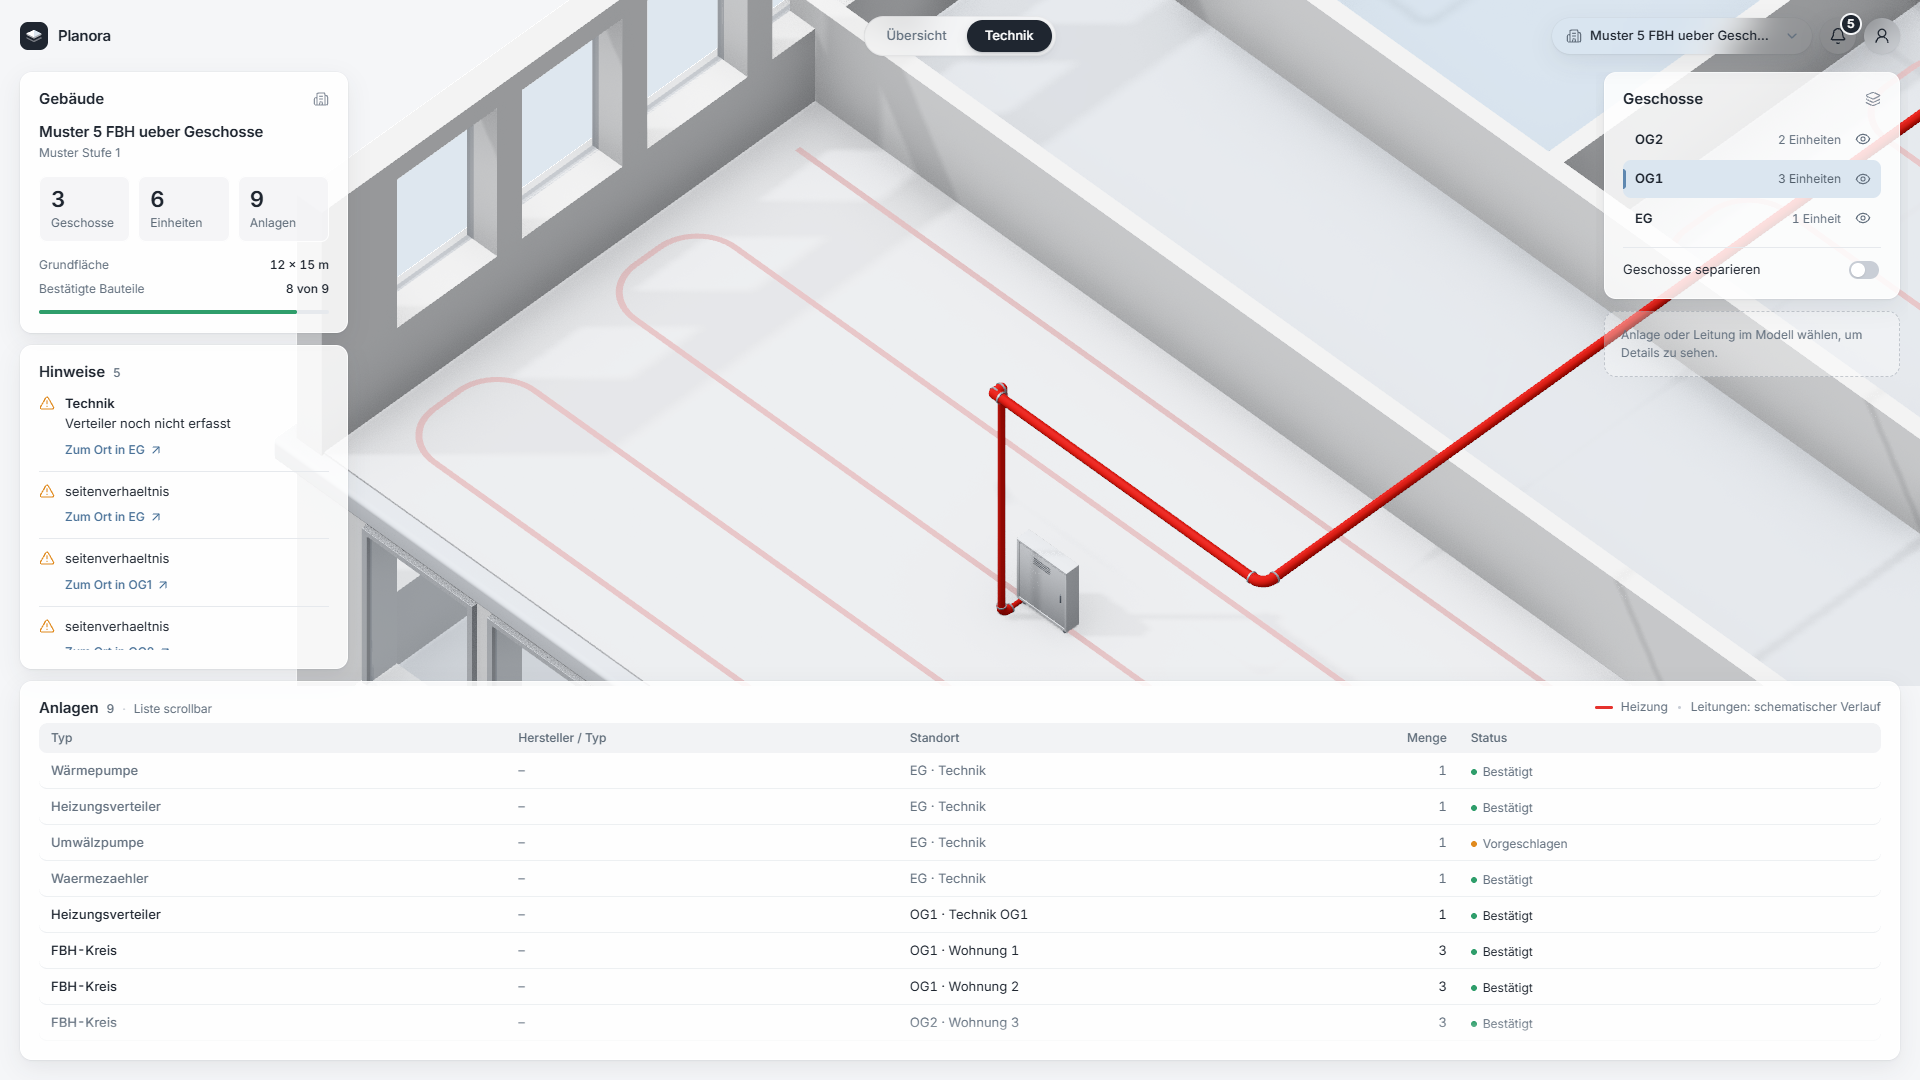
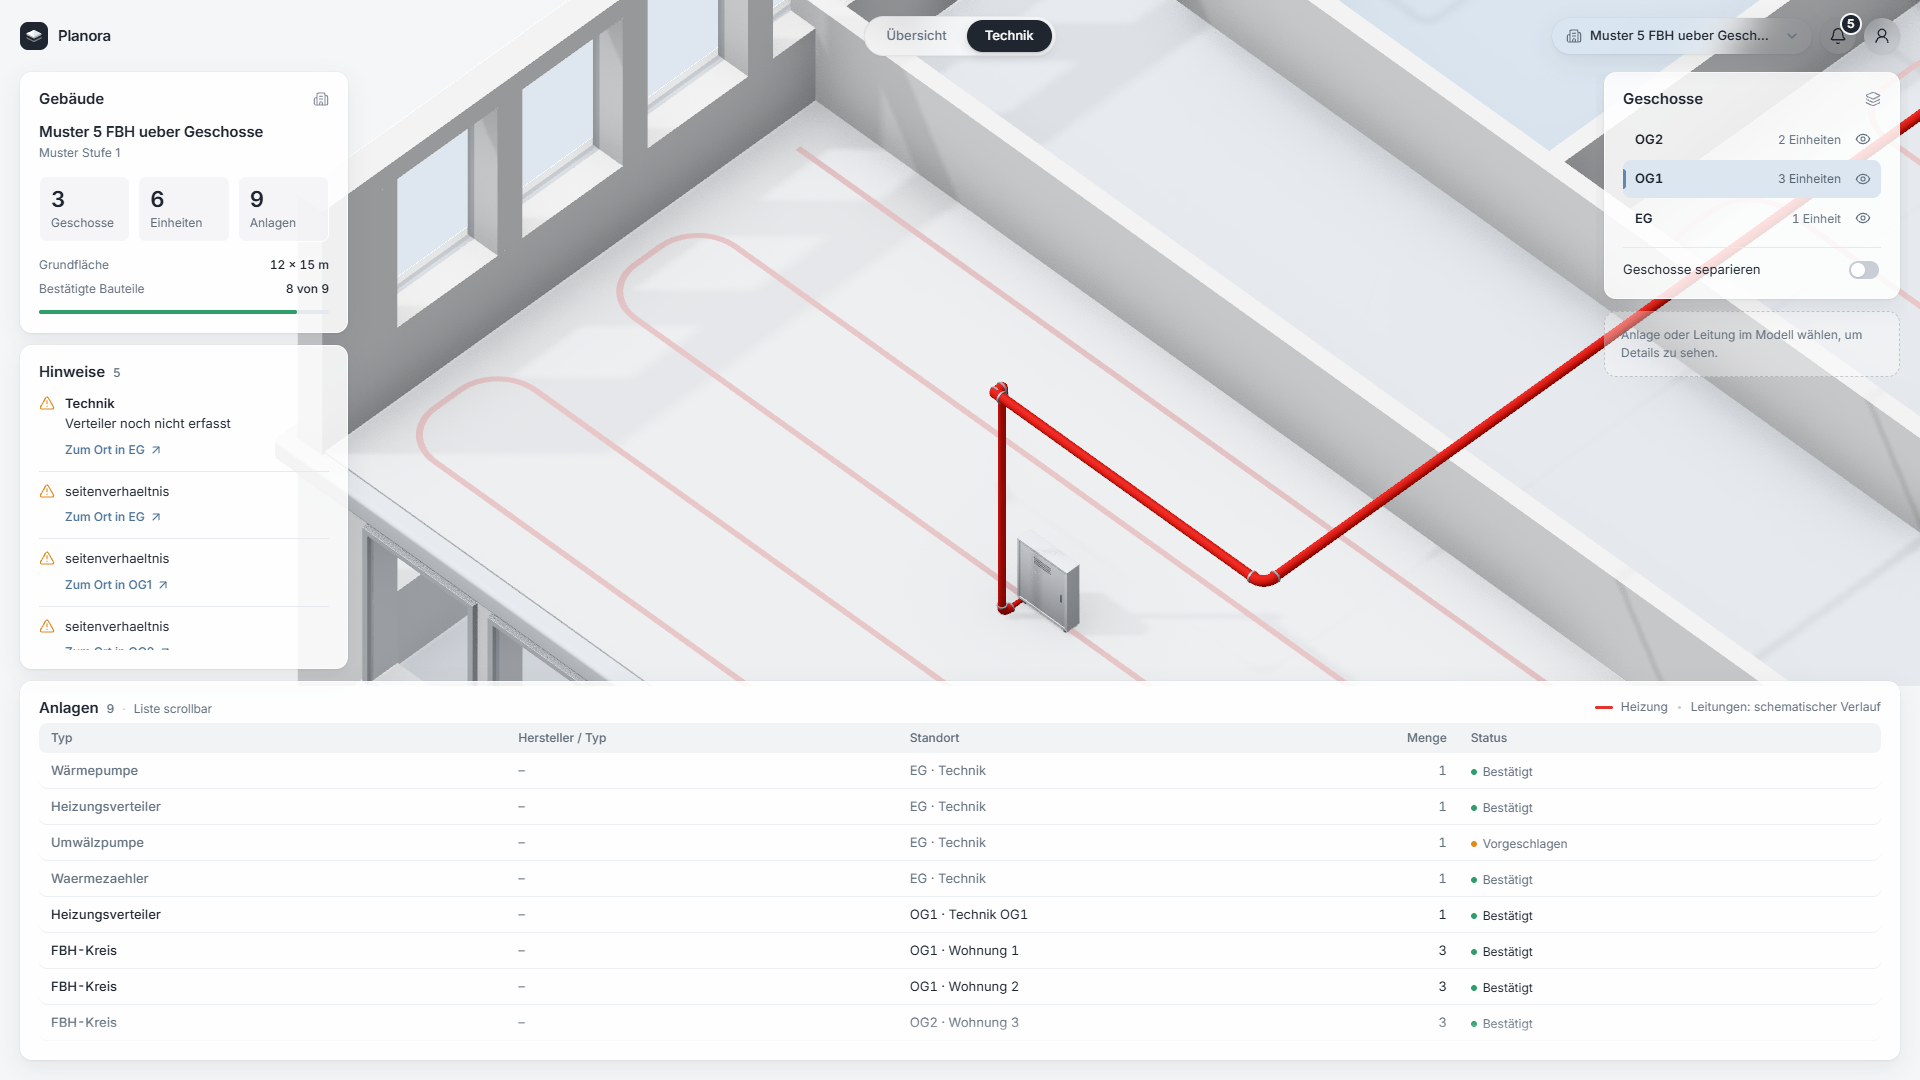
Formstuecke: T-Stueck auch bei Abzweig an einer Strangecke
PO 15.11.: Beginnt ein Abzweig an einem Eckpunkt des Strangs, zeichnete das
Rohr dort einen Pressbogen und der Abzweig stach aus dessen Ecke (wirkte
wie zwei Boegen). anAbzweigenTeilen() teilt das Rohr fuer die Darstellung
an solchen Punkten; knoten() erkennt dann drei Arme und setzt ein T-Stueck.
Punkte und Fuehrung unveraendert. 3 neue Tests, Web 366/366, 60 fps.

diff --git a/app/web/src/szene3/formstuecke.test.ts b/app/web/src/szene3/formstuecke.test.ts
@@ -1,7 +1,7 @@
 import * as THREE from "three";
 import { describe, expect, it } from "vitest";
 import type { V3 } from "../szene2/huelle";
-import { bogenMatrix, bogenSchluessel, formstuecke, FORMSTUECK, knoten, zylinderMatrix } from "./formstuecke";
+import { anAbzweigenTeilen, bogenMatrix, bogenSchluessel, formstuecke, FORMSTUECK, knoten, zylinderMatrix } from "./formstuecke";
 import type { Rohrstueck } from "./netz";
 import { ROHR, bogenLagen } from "./technik";
 
@@ -89,5 +89,29 @@ describe("Instanzmatrizen", () => {
     const m = zylinderMatrix({ position: [1, 2, 3], richtung: [0, 0, -1], radius: 0.05, laenge: 0.2 });
     const spitze = new THREE.Vector3(0, 0.5, 0).applyMatrix4(m);
     expect(spitze.distanceTo(new THREE.Vector3(1, 2, 2.9))).toBeLessThan(1e-9);
+  });
+});
+
+describe("anAbzweigenTeilen (Abzweig an einer Ecke des Strangs, PO 15.11.)", () => {
+  // Strang biegt bei (4,3,0) ab; dort beginnt ein Abzweig derselben Gruppe.
+  const strang = { ...rohr([[0, 3, 0], [4, 3, 0], [4, 3, 3]], "g"), startRadius: 0.02, endRadius: 0.03, frei: true };
+  const abzweig = rohr([[4, 3, 0], [8, 3, 0]], "g");
+  const teile = anAbzweigenTeilen([strang, abzweig]);
+
+  it("teilt den Strang an der Ecke, Punkte und Radien an den Enden bleiben", () => {
+    expect(teile.map((t) => t.stueck.punkte)).toEqual([[[0, 3, 0], [4, 3, 0]], [[4, 3, 0], [4, 3, 3]], [[4, 3, 0], [8, 3, 0]]]);
+    expect(teile.map((t) => [t.index, t.erstes])).toEqual([[0, true], [0, false], [1, true]]);
+    expect([teile[0].stueck.startRadius, teile[0].stueck.endRadius, teile[1].stueck.startRadius, teile[1].stueck.endRadius]).toEqual([0.02, 0.045, 0.045, 0.03]);
+    expect([teile[0].stueck.frei, teile[1].stueck.frei]).toEqual([false, true]);
+  });
+  it("ergibt an der Ecke ein T-Stück statt Bogen", () => {
+    const f = formstuecke(teile.map((t) => t.stueck));
+    expect(f.boegen).toEqual([]);
+    expect(f.knoten).toHaveLength(1);
+    expect(f.knoten[0].arme).toHaveLength(3);
+  });
+  it("teilt nicht bei fremdem Netz und nicht ohne Abzweig", () => {
+    expect(anAbzweigenTeilen([strang, rohr([[4, 3, 0], [8, 3, 0]], "x")])).toHaveLength(2);
+    expect(anAbzweigenTeilen([strang])).toHaveLength(1);
   });
 });

diff --git a/app/web/src/szene3/Technik3.tsx b/app/web/src/szene3/Technik3.tsx
@@ -16,7 +16,7 @@ import { GeschossGruppe, type Darstellung } from "./Bewegung";
 import type { Interaktion } from "./Interaktion";
 import { rohrGeschosse } from "./darstellung";
 import { SCHATTEN, kontaktLichtZiel } from "./qualitaet";
-import { formstuecke } from "./formstuecke";
+import { anAbzweigenTeilen, formstuecke } from "./formstuecke";
 import { Formstuecke3 } from "./Formstuecke3";
 import { achseY, mitRohrStaerke, ROHR_FAKTOR, rohrFaktor } from "./rohrStaerke";
 
@@ -74,9 +74,16 @@ export function Technik3({ welt, katalog, fokusId, schatten, onModelle, darstell
   const sichtbar = useMemo(() => sichtbarListe, [sichtbarSchluessel]);
   const kappen = useMemo(() => freieVerteilerAbgaenge(welt, katalog), [welt, katalog]);
   const getrennt = separiert || !!darstellung?.bewegung || sichtbar.length !== schnitt.geschosse.length;
-  const rohre = useMemo(() => netz.rohre.flatMap((r) => rohrGeschosse(welt, r.punkte, sichtbar).map((t) => ({
-    ...t, stueck: { ...r, punkte: t.punkte, frei: t.endeGetrennt ? getrennt : r.frei }, anfangFrei: getrennt && t.anfangGetrennt,
-  }))), [netz, welt, sichtbar, getrennt]);
+  const rohre = useMemo(() => {
+    const teile = netz.rohre.flatMap((r) => rohrGeschosse(welt, r.punkte, sichtbar).map((t) => ({
+      ...t, stueck: { ...r, punkte: t.punkte, frei: t.endeGetrennt ? getrennt : r.frei }, anfangFrei: getrennt && t.anfangGetrennt,
+    })));
+    // Abzweig an einer Ecke: Rohr dort teilen, damit ein T-Stück statt eines Bogens entsteht (formstuecke.anAbzweigenTeilen).
+    return sichtbar.flatMap((id) => {
+      const eigene = teile.filter((r) => r.geschossId === id);
+      return anAbzweigenTeilen(eigene.map((r) => r.stueck)).map((t) => ({ ...eigene[t.index], stueck: t.stueck, anfangFrei: t.erstes && eigene[t.index].anfangFrei }));
+    });
+  }, [netz, welt, sichtbar, getrennt]);
   // Bögen, T-Stücke und Winkel je Geschoss aus den sichtbaren Rohrteilen (nur Darstellung, Punkte unverändert).
   const formen = useMemo(() => new Map(sichtbar.map((id) => [id, formstuecke(rohre.filter((r) => r.geschossId === id).map((r) => r.stueck))])), [rohre, sichtbar]);
   const huelsenGeschoss = (h: Huelse) => h.art === "decke"

diff --git a/app/web/src/szene3/formstuecke.ts b/app/web/src/szene3/formstuecke.ts
@@ -80,6 +80,32 @@ export function knoten(stuecke: Rohrstueck[]): Knoten[] {
   });
 }
 
+/**
+ * Teilt Rohre an inneren Punkten, an denen ein anderes Rohr desselben Netzes beginnt oder endet (Abzweig an einer Ecke
+ * des Strangs). Ohne Teilung zeichnet das Rohr dort einen Bogen und der Abzweig sticht aus dessen Ecke (PO 15.11.);
+ * geteilt stossen drei Enden zusammen und `knoten` setzt ein T-Stück. Nur Darstellung, die Punkte bleiben dieselben.
+ * Ergebnis je Teil: Rohrstück, Index des Ausgangsrohrs, ob es das erste Teil ist.
+ */
+export function anAbzweigenTeilen(stuecke: Rohrstueck[]): { stueck: Rohrstueck; index: number; erstes: boolean }[] {
+  const tol = FORMSTUECK.toleranz;
+  const enden = stuecke.map((s) => (s.punkte.length >= 2 ? [s.punkte[0], s.punkte[s.punkte.length - 1]] : []).map((p) => ({ p: v(p), netz: netzVon(s) })));
+  return stuecke.flatMap((t, i) => {
+    const netz = netzVon(t);
+    const schnitte: number[] = [];
+    for (let k = 1; k < t.punkte.length - 1; k++) {
+      const q = v(t.punkte[k]);
+      if (enden.some((e, j) => j !== i && e.some((x) => x.netz === netz && x.p.distanceTo(q) < tol))) schnitte.push(k);
+    }
+    if (!schnitte.length) return [{ stueck: t, index: i, erstes: true }];
+    const grenzen = [0, ...schnitte, t.punkte.length - 1];
+    return grenzen.slice(1).map((ende, n) => {
+      const anfang = grenzen[n], letztes = n === grenzen.length - 2;
+      return { index: i, erstes: n === 0, stueck: { ...t, punkte: t.punkte.slice(anfang, ende + 1),
+        startRadius: n === 0 ? t.startRadius : t.radius, endRadius: letztes ? t.endRadius : t.radius, frei: letztes && t.frei } };
+    });
+  });
+}
+
 /** Alle Formstücke einer Menge Rohrstücke: Bögen je Rohr, Knoten zwischen Rohren, dazu Muffen und Pressringe. */
 export function formstuecke(stuecke: Rohrstueck[]): Formstuecke {
   const boegen: Bogenstueck[] = [], muffen: Zylinder[] = [], ringe: Zylinder[] = [];

diff --git a/docs/abnahme/2026-11-15-leitungsrouter/README.md b/docs/abnahme/2026-11-15-leitungsrouter/README.md
@@ -14,6 +14,7 @@ Kritik: [r1](../../design/kritiken/2026-11-15-leitungsrouter-r1.md) (verbessern)
 | Zentrale nachher | [m3](m3-zentrale-1440x900.png), [m6](m6-zentrale-1440x900.png), [m6u](m6u-zentrale-1440x900.png) |
 | Pressbögen nah | [m3](formstuecke/m3-zentrale-nah-1440x900.png), [m6](formstuecke/m6-zentrale-nah-1440x900.png) |
 | T-Stück am Gruppenstrang (Mitte oben, x 740 / y 237) | [m3](formstuecke/m3-t-stueck-nah-1440x900.png) |
+| T-Stück an einer Strangecke (PO 15.11.: wirkte wie zwei Bögen) | [vorher](formstuecke/t-ecke-vorher.png), [nachher](formstuecke/t-ecke-nachher.png) |
 | FBH-Kasten geschlossen, ohne Auswahl | [m5](formstuecke/m5-fbh-kasten-nah-1440x900.png) |
 | Geschossbild (Rohre aus Distanz verdickt) | [m3 EG](m3-geschoss-eg-1440x900.png), [m3 OG1](m3-geschoss-og1-1440x900.png), [m6 EG](m6-geschoss-eg-1440x900.png) |
 | Band-Effekt aus Distanz (Geschmacksfrage) | [m6 Technik](m6-technik-1440x900.png) |
